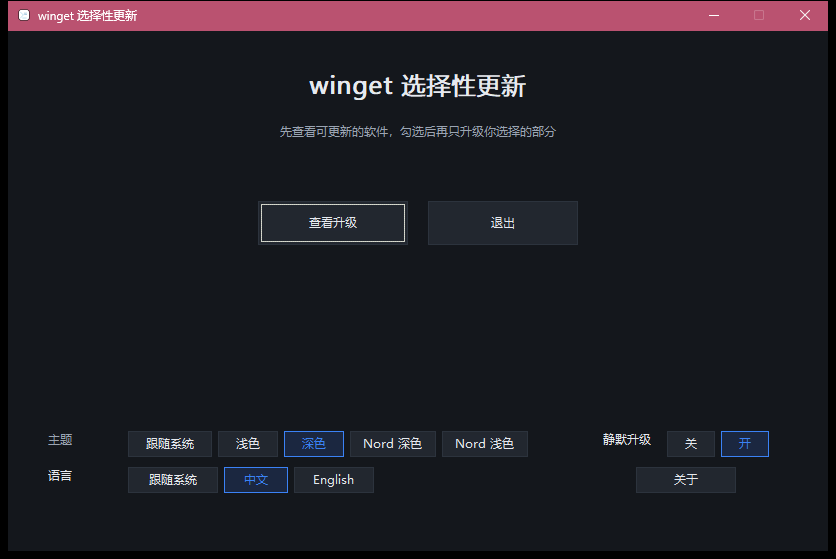
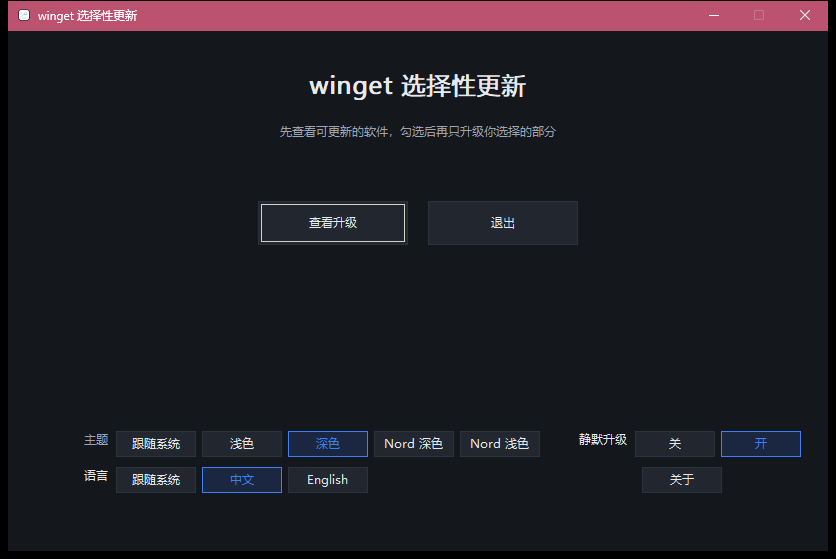
fix(ui): 设置区按钮统一 80x26，标签右对齐消除空隙

diff --git a/src/main.rs b/src/main.rs
@@ -309,6 +309,7 @@ const WS_EX_CLIENTEDGE: DWORD = 0x0000_0200;
 const BS_PUSHBUTTON: DWORD = 0x0000_0000;
 const SS_LEFT: DWORD = 0x0000_0000;
 const SS_CENTER: DWORD = 0x0000_0001;
+const SS_RIGHT: DWORD = 0x0000_0002;
 const SS_NOPREFIX: DWORD = 0x0000_0080;
 
 const LVS_REPORT: DWORD = 0x0001;
@@ -2248,31 +2249,32 @@ impl App {
             BS_PUSHBUTTON | WS_TABSTOP, 0, s(704), s(472), s(100), s(32), ID_BACK, font,
         );
 
-        // 设置区：2×2 表格。第一列靠左，第二列在右半区内居中。
+        // 设置区：2×2 表格。设置按钮统一 80×26，标签右对齐并与按钮保持 8px 间距。
         let row1_y = s(400);
         let row2_y = s(436);
         let ctl_h = s(26);
-        let left_x = s(40);
+        let left_x = s(36);
+        let label_w = s(64);
+        let label_gap = s(8);
+        let btn_w = s(80);
+        let btn_gap = s(6);
 
         // 第一列第一行：主题
-        let theme_widths = [s(84), s(60), s(60), s(86), s(86)];
-        let theme_gap = s(6);
-        let theme_label_w = s(72);
         let theme_label = make_child(
             hwnd,
             instance,
             &class_static,
             lang::t().theme_label,
-            SS_LEFT | SS_NOPREFIX,
+            SS_RIGHT | SS_NOPREFIX,
             0,
             left_x,
             row1_y,
-            theme_label_w,
+            label_w,
             ctl_h,
             ID_THEME_LABEL,
             font,
         );
-        let mut theme_x = left_x + theme_label_w + s(8);
+        let mut theme_x = left_x + label_w + label_gap;
         let mut theme_btns: [HWND; 5] = [std::ptr::null_mut(); 5];
         for (i, _choice) in theme::CHOICES.iter().enumerate() {
             theme_btns[i] = make_child(
@@ -2284,33 +2286,30 @@ impl App {
                 0,
                 theme_x,
                 row1_y,
-                theme_widths[i],
+                btn_w,
                 ctl_h,
                 ID_THEME_BASE + i as i32,
                 font,
             );
-            theme_x += theme_widths[i] + theme_gap;
+            theme_x += btn_w + btn_gap;
         }
 
         // 第一列第二行：语言
-        let lang_widths = [s(90), s(64), s(80)];
-        let lang_gap = s(6);
-        let lang_label_w = s(72);
         let lang_label = make_child(
             hwnd,
             instance,
             &class_static,
             lang::t().lang_label,
-            SS_LEFT | SS_NOPREFIX,
+            SS_RIGHT | SS_NOPREFIX,
             0,
             left_x,
             row2_y,
-            lang_label_w,
+            label_w,
             ctl_h,
             ID_LANG_LABEL,
             font,
         );
-        let mut lang_x = left_x + lang_label_w + s(8);
+        let mut lang_x = left_x + label_w + label_gap;
         let mut lang_btns: [HWND; 3] = [std::ptr::null_mut(); 3];
         for (i, text) in lang::t().lang_labels.iter().enumerate() {
             lang_btns[i] = make_child(
@@ -2322,42 +2321,40 @@ impl App {
                 0,
                 lang_x,
                 row2_y,
-                lang_widths[i],
+                btn_w,
                 ctl_h,
                 ID_LANG_BASE + i as i32,
                 font,
             );
-            lang_x += lang_widths[i];
-            if i + 1 < lang_widths.len() {
-                lang_x += lang_gap;
+            lang_x += btn_w;
+            if i + 1 < lang_btns.len() {
+                lang_x += btn_gap;
             }
         }
 
-        // 第二列所在区域：右半区
-        let col2_left = s(552);
+        // 第二列所在区域：右半区，内容居中
+        let col2_left = s(544);
         let col2_right = s(804);
         let col2_w = col2_right - col2_left;
 
         // 第二列第一行：静默升级
-        let silent_btn_w = s(48);
-        let silent_label_w = s(56);
-        let silent_group_w = silent_label_w + s(8) + silent_btn_w * 2 + lang_gap;
+        let silent_group_w = label_w + label_gap + btn_w * 2 + btn_gap;
         let silent_x = col2_left + (col2_w - silent_group_w) / 2;
         let silent_label = make_child(
             hwnd,
             instance,
             &class_static,
             lang::t().silent_label,
-            SS_LEFT | SS_NOPREFIX,
+            SS_RIGHT | SS_NOPREFIX,
             0,
             silent_x,
             row1_y,
-            silent_label_w,
+            label_w,
             ctl_h,
             ID_SILENT_LABEL,
             font,
         );
-        let silent_buttons_x = silent_x + silent_label_w + s(8);
+        let silent_buttons_x = silent_x + label_w + label_gap;
         let silent_btns: [HWND; 2] = [
             make_child(
                 hwnd,
@@ -2368,7 +2365,7 @@ impl App {
                 0,
                 silent_buttons_x,
                 row1_y,
-                silent_btn_w,
+                btn_w,
                 ctl_h,
                 ID_SILENT_OFF,
                 font,
@@ -2380,9 +2377,9 @@ impl App {
                 lang::t().silent_on,
                 WS_TABSTOP,
                 0,
-                silent_buttons_x + silent_btn_w + lang_gap,
+                silent_buttons_x + btn_w + btn_gap,
                 row1_y,
-                silent_btn_w,
+                btn_w,
                 ctl_h,
                 ID_SILENT_ON,
                 font,
@@ -2390,8 +2387,7 @@ impl App {
         ];
 
         // 第二列第二行：关于
-        let about_w = s(100);
-        let about_x = col2_left + (col2_w - about_w) / 2;
+        let about_x = col2_left + (col2_w - btn_w) / 2;
         let btn_about = make_child(
             hwnd,
             instance,
@@ -2401,7 +2397,7 @@ impl App {
             0,
             about_x,
             row2_y,
-            about_w,
+            btn_w,
             ctl_h,
             ID_ABOUT,
             font,

diff --git a/docs/plan-v0.2.md b/docs/plan-v0.2.md
@@ -135,7 +135,7 @@
   致谢写入 `Code by Deepseek v4.1 Flash (1017)`；旧 README 备份为 `README.v0.1-backup.md` 并加入 `.gitignore`；
 - README 按 `lieflat-less-ai-tone` 流程检测：脚本层 + 语义层 12 条候选判读，语义四项均低于门槛；
   按建议拆了 4 处句内分号（L37/L105/L147/L149），其余 X 级清单/顿号清单/结构指标按规则保留；
-- 最终 exe：347,136 B（约 339 KiB），版本 0.2.0.0；桌面 `winget-picker.exe` 与 `dist/winget-picker.exe` 已更新；
+- 最终 exe：346,624 B（约 339 KiB），版本 0.2.0.0；桌面 `winget-picker.exe` 与 `dist/winget-picker.exe` 已更新；
 - 发布包：`dist/winget-picker-0.2.0-win64.zip`（exe + README + LICENSE）；
 - 真实 winget 最终验证：25 个可更新项正常列出（`screens-real/`）；真实升级未执行；
 - 最终回归：假 winget 全流程 / 升级中 UI / 主题 / 语言 / 静默升级 / Spinner / 单测 6/6 全部通过；
@@ -144,14 +144,14 @@
 
 ### 0.2.0 界面修正（2026-11-26，发布前）
 
-- 设置区从两行横排改为 **2×2 布局**：第一列主题/语言靠左，第二列静默升级/关于在右半区居中；主题与语言标签宽度统一，静默标签与按钮间距缩小；
+- 设置区从两行横排改为 **2×2 布局**：第一列主题/语言，第二列静默升级/关于居中；设置按钮统一 **80×26**，标签右对齐并与按钮固定 8px 间距；
 - 修复主题切换后底部标签、按钮不重绘（补全 `apply_theme_visual` 的控件失效列表）；
 - 修复升级结束回到初始界面后残留转圈（`apply_phase` 阶段切换时失效转圈区域）；
 - 测试补充：
   - `gui_test_theme.ps1` 新增深色→浅色→深色重绘断言与截图；
   - `gui_test_spinner.ps1` 新增升级结束返回主界面后转圈清除断言；
   - GUI 测试统一固定主题/语言/静默环境变量，避免用户本地 ini 干扰；
-- 重新构建 exe：347,136 B，重新生成截图与发布包。
+- 重新构建 exe：346,624 B，重新生成截图与发布包。
 
 ### P1（本轮不做，记录）
 

diff --git a/README.md b/README.md
@@ -4,7 +4,7 @@
 
 `winget upgrade --all` 会把列表里的程序全部升掉。这个工具把选择权收回来：先看列表，勾你要的，再升级，没勾的软件不会被动到。
 
-Rust 编写，原生 Win32 界面，零第三方依赖。当前版本 0.2.0，发布版约 339 KiB（347,136 字节），双击 `winget-picker.exe` 即可使用。
+Rust 编写，原生 Win32 界面，零第三方依赖。当前版本 0.2.0，发布版约 339 KiB（346,624 字节），双击 `winget-picker.exe` 即可使用。
 
 ![主界面（深色主题）](screens-themes/theme-dark.png)
 
@@ -219,7 +219,7 @@ winget-picker/
 
 ## 更新记录
 
-- **0.2.0**（2026-11-26）：主题系统（5 套）、中英文切换、关于窗、静默升级（提示与自动回退）、加载转圈、应用图标与版本资源；设置区改为 2×2 布局，修复主题切换后底部控件不重绘、升级结束返回主界面转圈残留。
+- **0.2.0**（2026-11-26）：主题系统（5 套）、中英文切换、关于窗、静默升级（提示与自动回退）、加载转圈、应用图标与版本资源；设置区改为 2×2 布局、所有设置按钮统一 80×26、标签右对齐；修复主题切换后底部控件不重绘、升级结束返回主界面转圈残留。
 - **0.1.x**：选择性升级、列表解析、升级过程 UI（滚动、勾选锁定、进度条、结果着色、汇总）。
 
 ## 致谢
